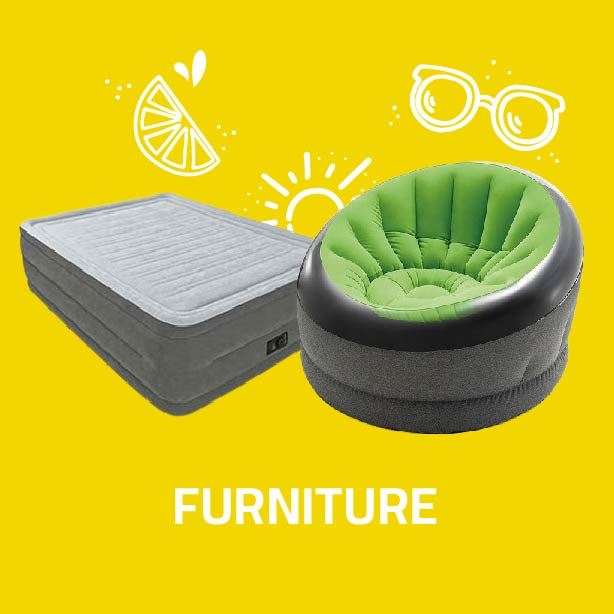
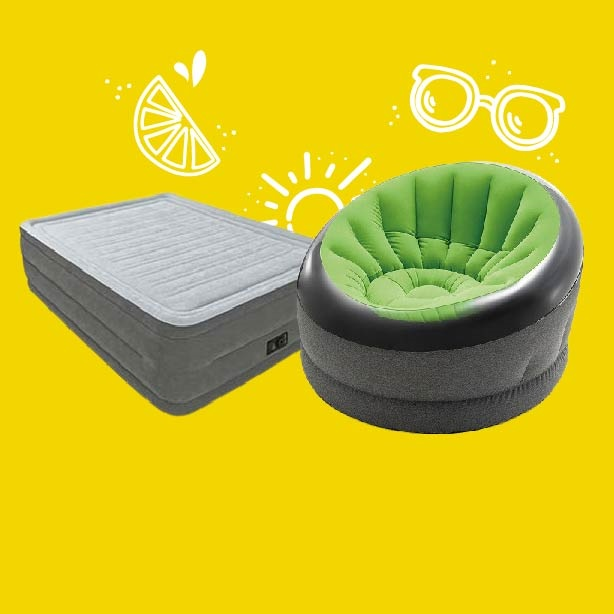
a lot of tweaks that i can't recall

Changed region(s): [[0.2785, 0.7736, 0.7117, 0.8664], [0.2785, 0.2166, 0.3094, 0.2476]]

diff --git a/pages/index.jsx b/pages/index.jsx
@@ -38,26 +38,31 @@ export default function HomePage({ data, isLoading }) {
 			src: '/Assets/images/intro/categories-05.jpg',
 			link: '/Products/342?title=pools',
 			aspectRatio: '16/7',
+			text: { en: 'pools', ar: 'برك' },
 		},
 		{
 			src: '/Assets/images/intro/categories-03.jpg',
 			link: '/Products/343?title=inflated%20pools',
 			aspectRatio: '1/1',
+			text: { en: 'inflated pools', ar: 'برك نفخ' },
 		},
 		{
 			src: '/Assets/images/intro/categories-02.jpg',
 			link: '/Products/1515?title=inflated%20products',
 			aspectRatio: '1/1',
+			text: { en: 'inflated products', ar: 'منتجات نفخ' },
 		},
 		{
 			src: '/Assets/images/intro/categories-01.jpg',
 			link: '/Products/344?title=accessories',
 			aspectRatio: '1/1',
+			text: { en: 'accessories', ar: 'اكسسوارات' },
 		},
 		{
 			src: '/Assets/images/intro/categories-04.jpg',
 			link: '/Products/1944?title=furniture',
 			aspectRatio: '1/1',
+			text: { en: 'furniture', ar: 'اثاث' },
 		},
 	];
 
@@ -69,13 +74,15 @@ export default function HomePage({ data, isLoading }) {
 			<HeadComponent />
 			<Header />
 			<main className="mx-auto mt-20 max-w-7xl font-bold">
-				<p className="py-4 text-center text-4xl capitalize text-primary">
-					{welcoming[0]}
-				</p>
-				<p className=" px-5 text-center text-gray-600">
-					{welcoming[1]}
-				</p>
 				<Intro intros={IntroProps} />
+				<article className=" px-5 py-10 text-center ">
+					<h1 className="py-4 text-center text-4xl uppercase text-blue_gray">
+						{welcoming[0]}
+					</h1>
+					<p className=" text- text-gray px-5 text-gray-700">
+						{welcoming[1]}
+					</p>
+				</article>
 				<ProductsContainerBody data={data} />
 			</main>
 			<Footer />

diff --git a/components/HomePageComponents/Intro/index.jsx b/components/HomePageComponents/Intro/index.jsx
@@ -1,11 +1,13 @@
+import { useRouter } from 'next/router';
 import React from 'react';
 
 export default function Intro({ intros }) {
+	const { lang } = useRouter().query;
 	return (
 		<div className="relative flex flex-row-reverse flex-wrap justify-evenly pt-5">
 			{intros.map((item, index) => (
 				<a
-					className={`my-[0.6vw]  ${
+					className={`relative  my-[0.8vw] ${
 						item.aspectRatio == '1/1' ? 'w-[47%]' : 'w-[97%]'
 					}  rounded-xl shadow-xl transition-all hover:shadow-2xl ${
 						item.aspectRatio == '1/1' ? 'mobile:w-[23%]' : ''
@@ -21,6 +23,16 @@ export default function Intro({ intros }) {
 							aspectRatio: item.aspectRatio,
 						}}
 					/>
+					<span
+						className={`absolute  bottom-[6%] w-full text-center capitalize text-white mobile:!text-[${
+							item.aspectRatio == '1/1' ? '2.7vw' : '4vw'
+						}]`}
+						style={{
+							fontSize: item.aspectRatio == '1/1' ? '5vw' : '6vw',
+						}}
+					>
+						{lang == 'arabic' ? item.text.ar : item.text.en}
+					</span>
 				</a>
 			))}
 		</div>

diff --git a/components/ui/ProductsContainer/ViewAllButton.jsx b/components/ui/ProductsContainer/ViewAllButton.jsx
@@ -9,7 +9,7 @@ export function ViewAllButton({ number, title, content }) {
 		<>
 			<Link
 				href={`/Products/${number}?title=${title}&lang=${lang}`}
-				className="mx-auto my-12 rounded-xl border-2 border-transparent bg-primary px-12 py-2 font-bold text-white transition-all duration-200 ease-in-out hover:border-primary hover:bg-white hover:text-primary"
+				className="mx-auto my-10 rounded-xl border-2 border-transparent bg-primary px-12 py-2 font-bold text-white transition-all duration-200 ease-in-out hover:border-primary hover:bg-white hover:text-primary"
 			>
 				{content.language == 'arabic'
 					? content.ProductContainer.viewAllButton

diff --git a/components/ui/Header/Header.jsx b/components/ui/Header/Header.jsx
@@ -30,7 +30,9 @@ export default function Header() {
 
 	return (
 		<div className=" fixed top-0 z-50 w-full bg-white shadow-lg ">
-			<header className={`z-50 mx-auto flex h-20 max-w-5xl items-center`}>
+			<header
+				className={`z-50 mx-auto flex h-20 max-w-5xl items-center `}
+			>
 				<NavigationButton
 					setNavigationVisability={setNavigationVisability}
 				/>

diff --git a/components/ui/ProductsContainer/ProductsContainer.jsx b/components/ui/ProductsContainer/ProductsContainer.jsx
@@ -20,7 +20,7 @@ export default function ProductsContainer({
 		<Loading />
 	) : (
 		<div className=" flex flex-1 flex-col items-center border-b">
-			<h1 className=" my-10 mx-auto w-fit text-3xl font-bold uppercase text-blue_gray  ">
+			<h1 className=" my-10 mx-auto w-fit text-3xl font-bold capitalize text-blue_gray  ">
 				{title}
 			</h1>
 

diff --git a/components/ui/ProductsContainer/ProductsCards.jsx b/components/ui/ProductsContainer/ProductsCards.jsx
@@ -9,7 +9,7 @@ export function ProductsCards({
 	sortByValue,
 }) {
 	return (
-		<div className="flex w-full flex-1 flex-wrap items-center justify-evenly gap-8 py-5 text-center">
+		<div className="flex w-full flex-1 flex-wrap items-center justify-evenly gap-8  text-center">
 			{data.data.res
 				.filter(
 					(x) =>

diff --git a/components/ui/Header/Language/index.jsx b/components/ui/Header/Language/index.jsx
@@ -43,7 +43,7 @@ export default function LanguageButton({ language }) {
 					: asPath + '?lang=arabic'
 			}
 		>
-			{language == 'arabic' ? 'EN' : 'AR'}
+			{lang == 'arabic' ? 'EN' : 'AR'}
 		</Link>
 	);
 }
